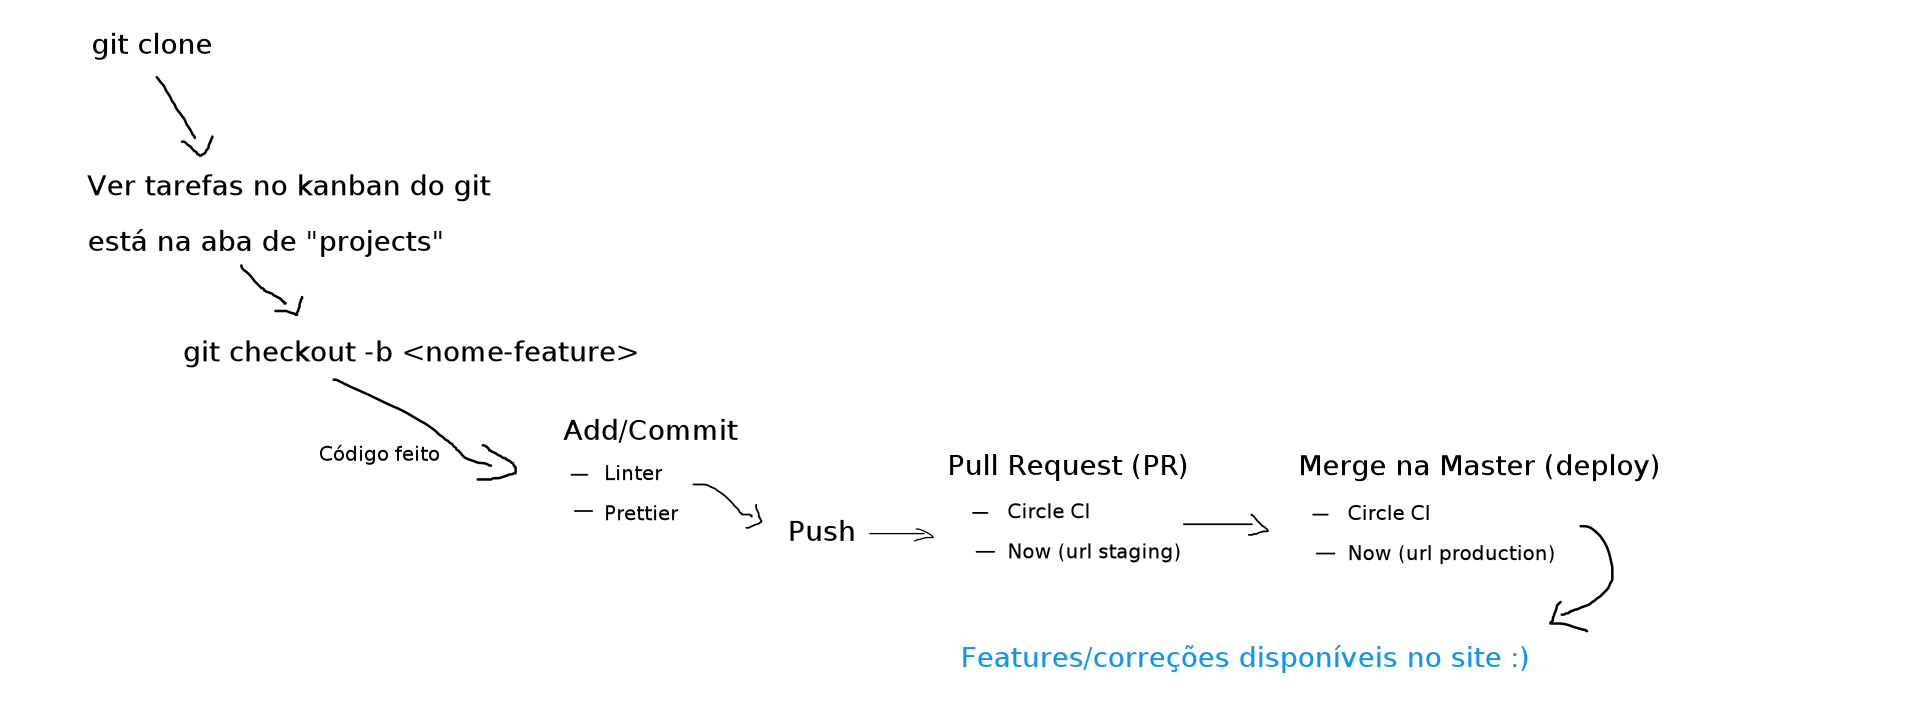
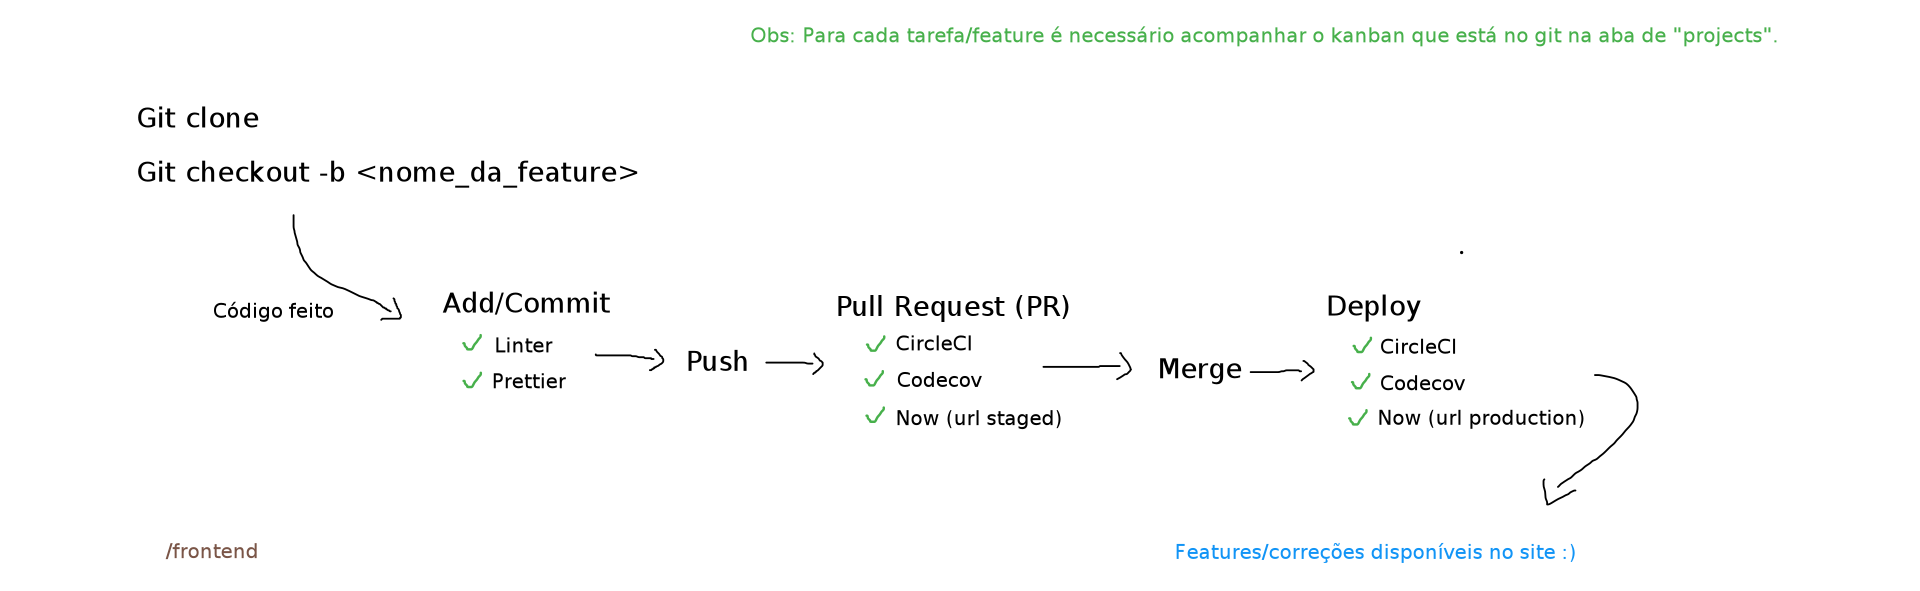
Alterando texto e imagem fluxo frontend

diff --git a/README.md b/README.md
@@ -1,6 +1,6 @@
 # Diagramas Restaurante Comunitário
 
-## Fluxo de desenvolvimento do projeto (web):
+## Fluxo de desenvolvimento do projeto (frontend):
 
 ![Fluxo de desenvolvimento do projeto web](https://github.com/catolicasc-social/diagramas/blob/master/Projeto%20-%20Fluxo%20de%20desenvolvimento.png?raw=true)
 
